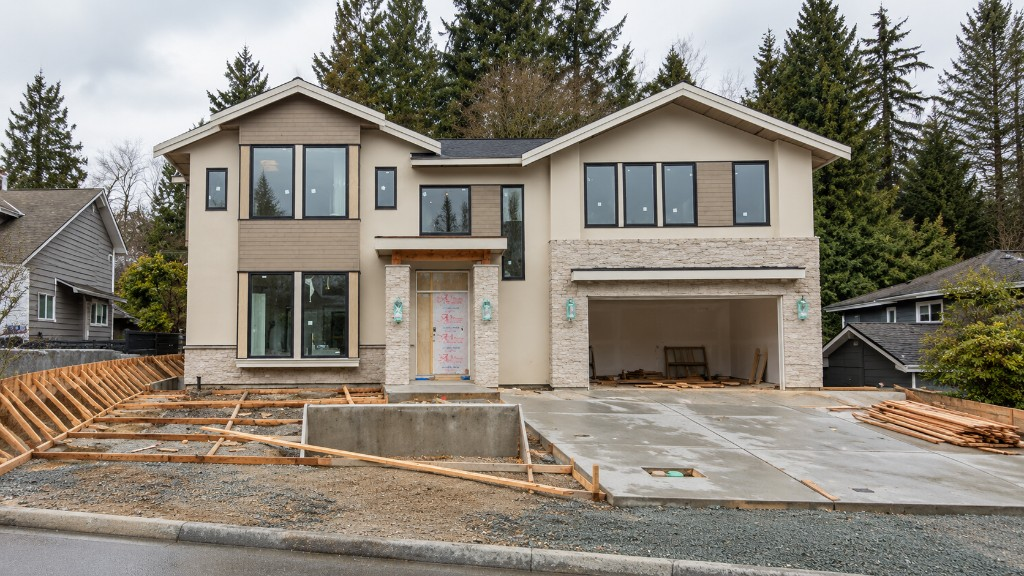
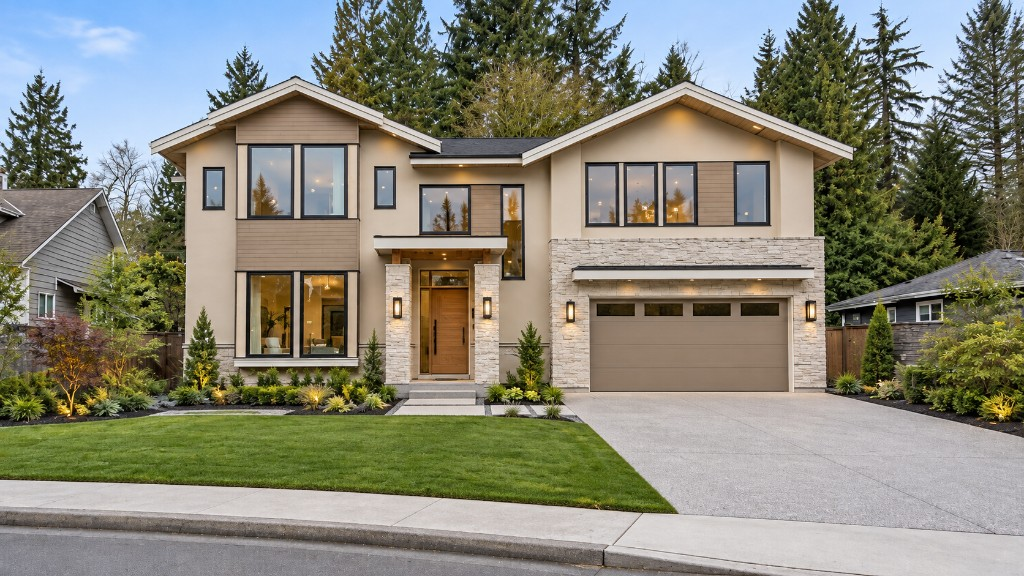
Refresh Burnaby and Stevenson portfolio photos to finished elevations.
The old construction shots no longer match the published covers, so the gallery copy now describes the completed fronts.

diff --git a/src/data/projects.ts b/src/data/projects.ts
@@ -161,12 +161,12 @@ export const GALLERY_PROJECTS: GalleryProject[] = [
     teaser:
       "Two-storey custom home in Burnaby with a warm stucco and stone exterior, tall windows, and a wide concrete drive.",
     overview: [
-      "This custom home in Burnaby is a two-storey residence with warm stucco, stone accents, and tall black-framed windows. The photo shows the home during construction, with the garage opening and front yard still in progress.",
+      "This custom home in Burnaby is a two-storey residence with warm stucco, stone around the garage and entry, and tall black-framed windows. Landscape lighting and a finished lawn and drive complete the front elevation.",
     ],
     serviceSlug: "custom-homes-multiplex",
     image: customHomeBurnabyImg,
     imageAlt:
-      "Custom two-storey home in Burnaby, BC during construction, with stone garage, tall windows, and concrete drive",
+      "Finished two-storey custom home in Burnaby, BC with stucco, stone garage, wood door, and landscaped front yard",
   },
   {
     slug: "custom-home-project-stevenson",
@@ -175,15 +175,15 @@ export const GALLERY_PROJECTS: GalleryProject[] = [
     category: "Custom home",
     scope: "Custom home",
     teaser:
-      "Custom home under construction with a light gable facade, covered upper decks, and a walk-out lower level.",
+      "Finished custom home with a pale gable facade, covered entry, upper decks, and a dark garage door.",
     overview: [
-      "Project Stevenson is a custom home with a light gable facade, covered upper decks, and a walk-out lower level. The build is shown in progress, with the same multiplex project walkthrough used on the custom homes and multiplex service page.",
+      "Project Stevenson is a custom home with light siding, a gable porch, covered upper decks, and a walk-out lower level. The front yard, driveway, and garage are complete in this view.",
     ],
     youtubeUrl: "https://youtu.be/CuLh6_YciqM",
     serviceSlug: "custom-homes-multiplex",
     image: projectStevensonImg,
     imageAlt:
-      "Custom Home Project Stevenson under construction, with gable entry, upper decks, and open lower level",
+      "Finished custom home with grey siding, gable entry, upper decks, and a dark two-car garage",
   },
   {
     slug: "custom-home-delta",
